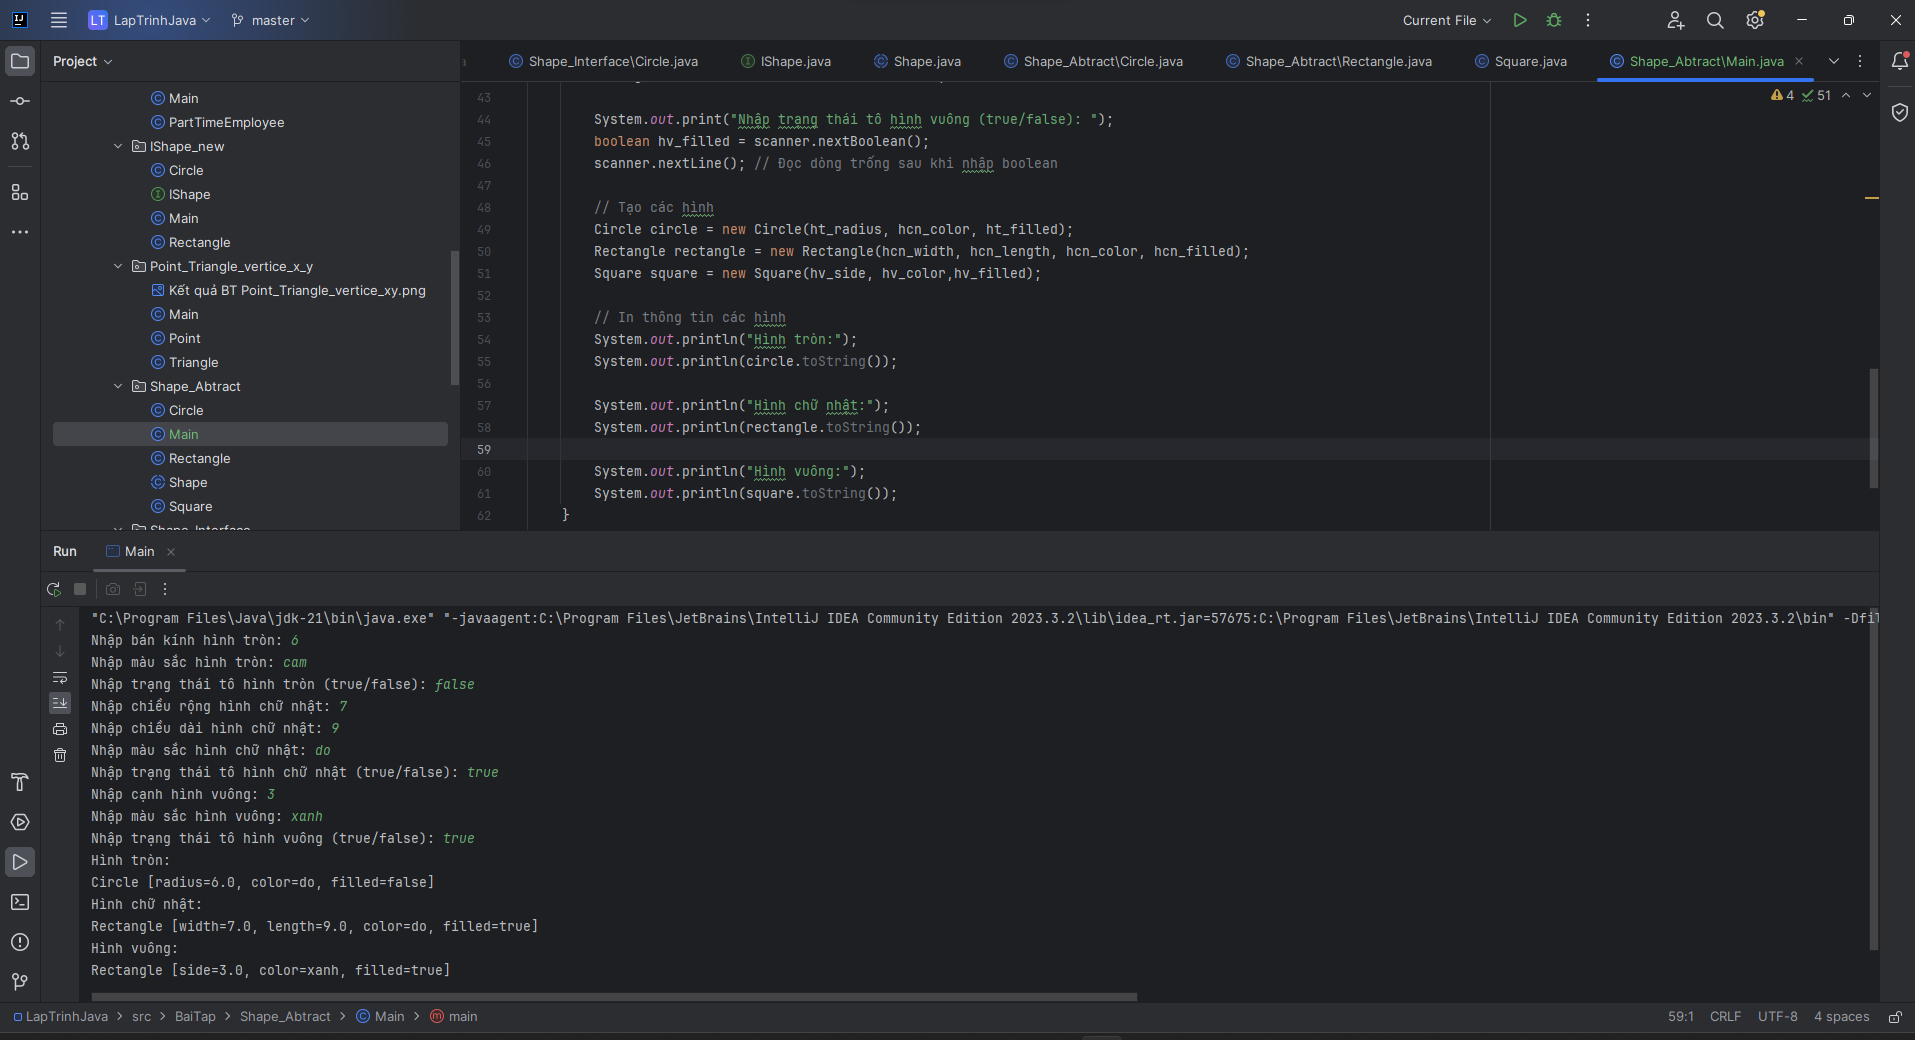
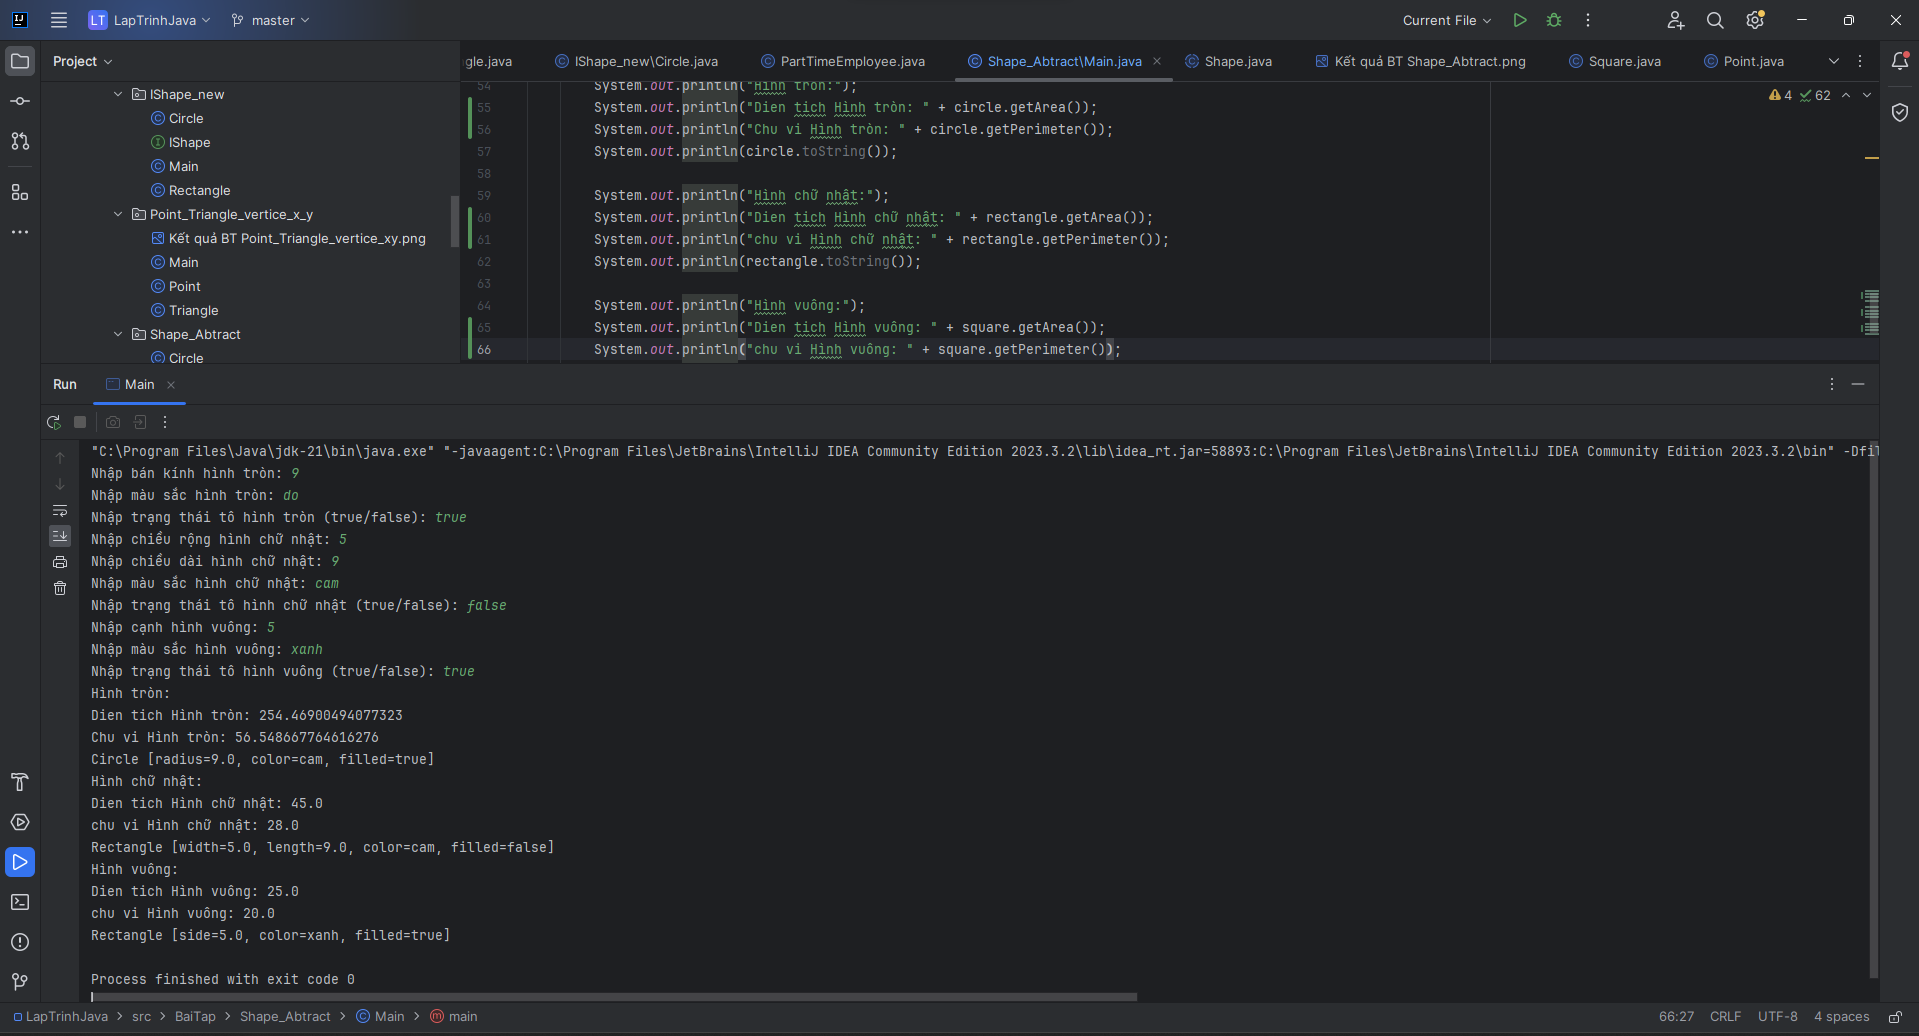
9th commit

diff --git a/src/BaiTap/Shape_Abtract/Main.java b/src/BaiTap/Shape_Abtract/Main.java
@@ -52,12 +52,18 @@ public class Main {
 
         // In thông tin các hình
         System.out.println("Hình tròn:");
+        System.out.println("Dien tich Hình tròn: " + circle.getArea());
+        System.out.println("Chu vi Hình tròn: " + circle.getPerimeter());
         System.out.println(circle.toString());
 
         System.out.println("Hình chữ nhật:");
+        System.out.println("Dien tich Hình chữ nhật: " + rectangle.getArea());
+        System.out.println("chu vi Hình chữ nhật: " + rectangle.getPerimeter());
         System.out.println(rectangle.toString());
 
         System.out.println("Hình vuông:");
+        System.out.println("Dien tich Hình vuông: " + square.getArea());
+        System.out.println("chu vi Hình vuông: " + square.getPerimeter());
         System.out.println(square.toString());
     }
 }
